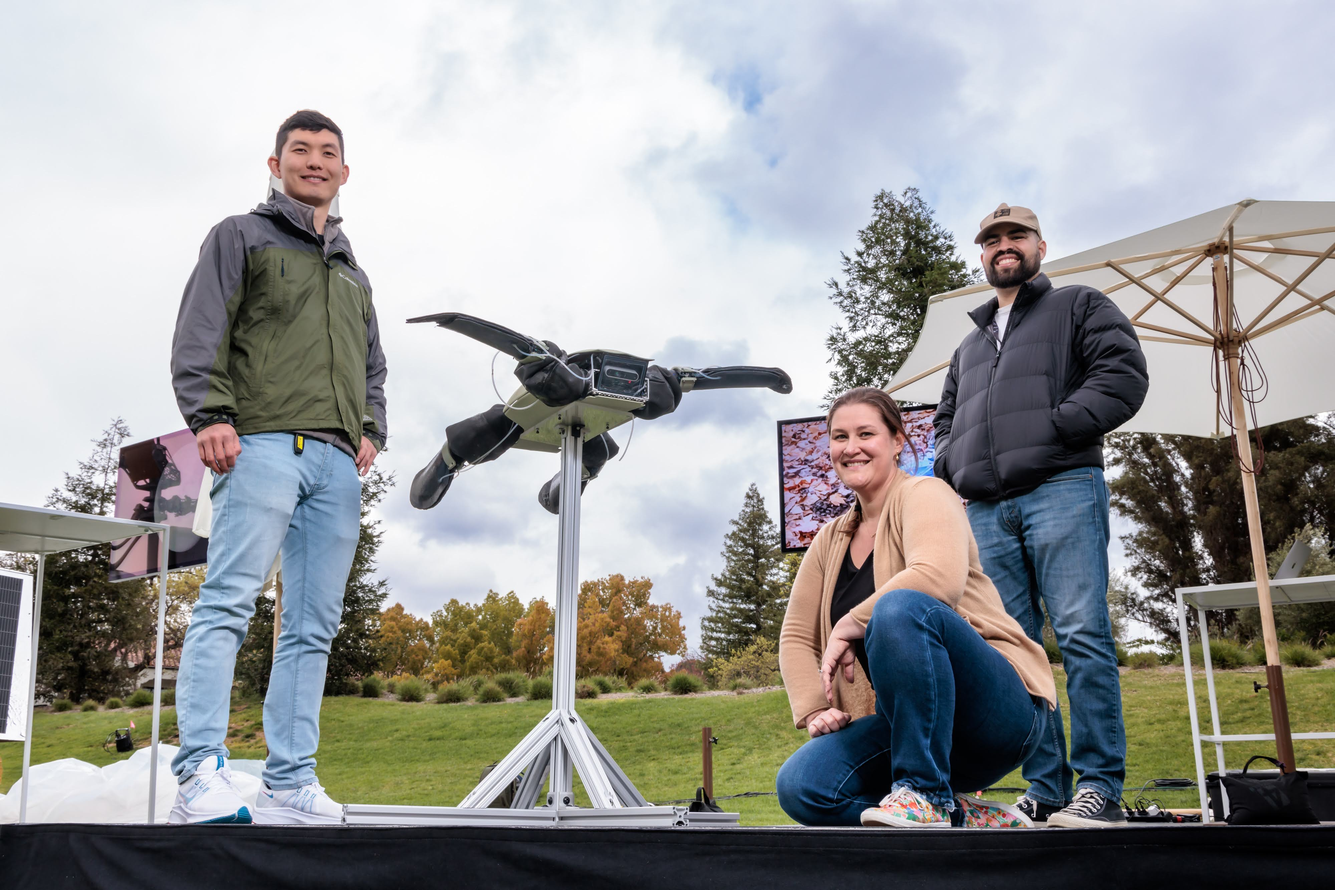
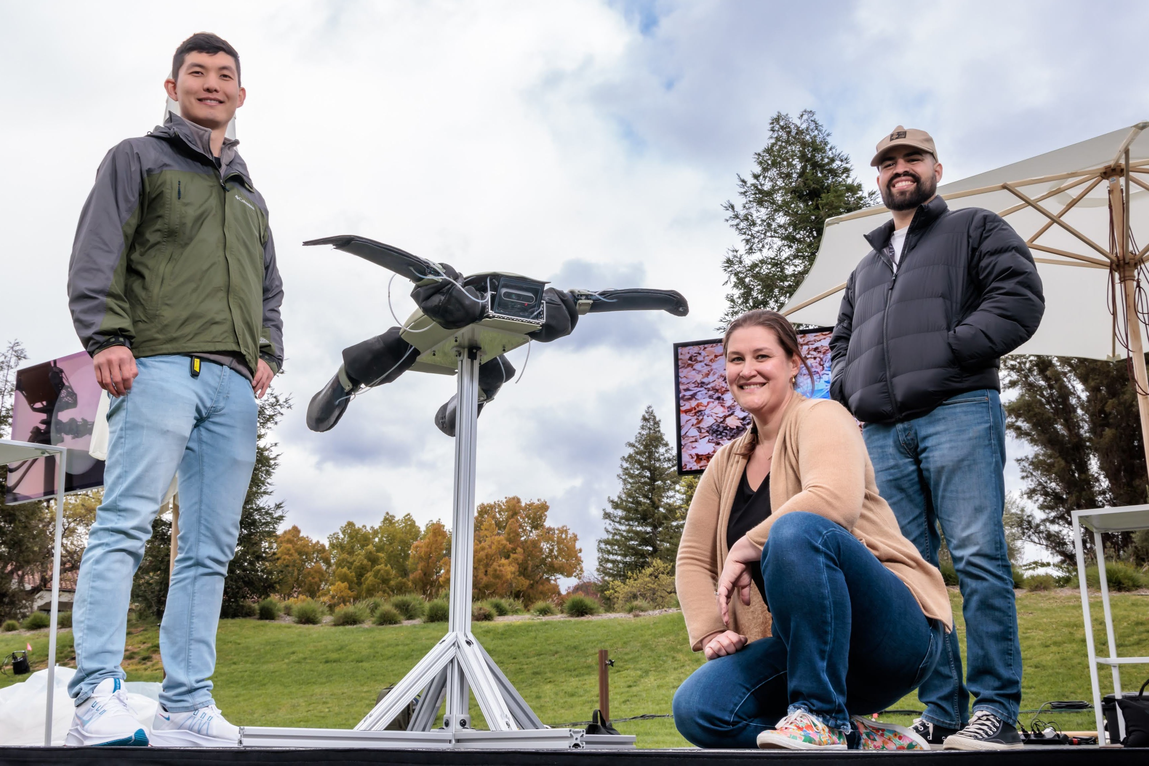
Update research text and media section

diff --git a/styles.css b/styles.css
@@ -1,2 +1,2 @@
 :root{--bg:#f6f7f8;--ink:#111317;--muted:#66707b;--line:#dfe3e7;--panel:#fff;--dark:#111317;--max:1180px;--radius:24px}
-*{box-sizing:border-box}html{scroll-behavior:smooth}body{margin:0;background:var(--bg);color:var(--ink);font-family:Inter,system-ui,sans-serif;line-height:1.6}.container{width:min(var(--max),calc(100% - 40px));margin:auto}.nav-wrap{position:sticky;top:0;z-index:20;background:rgba(246,247,248,.9);backdrop-filter:blur(14px);border-bottom:1px solid rgba(223,227,231,.8)}.nav{height:72px;display:flex;align-items:center;justify-content:space-between}.brand{font:700 22px 'Space Grotesk',sans-serif;text-decoration:none;color:var(--ink);border:2px solid var(--ink);width:42px;height:42px;border-radius:50%;display:grid;place-items:center}.nav-links{display:flex;gap:26px}.nav a{color:var(--ink);text-decoration:none;font-weight:600;font-size:14px}.hero{min-height:78vh;padding:80px 0;display:grid;grid-template-columns:1.05fr .95fr;gap:56px;align-items:center}.eyebrow{font-size:12px;font-weight:700;letter-spacing:.15em;color:#59636d;margin:0 0 18px}.hero h1,.section h2{font-family:'Space Grotesk',sans-serif;letter-spacing:-.04em}.hero h1{font-size:clamp(52px,7vw,92px);line-height:.95;margin:0 0 20px}.hero-subtitle{font-size:clamp(23px,3vw,36px);line-height:1.18;font-weight:500;margin:0 0 22px}.hero-body{font-size:18px;color:var(--muted);max-width:720px}.hero-actions,.about-actions{display:flex;gap:12px;margin-top:30px;flex-wrap:wrap}.button{padding:13px 18px;border-radius:999px;text-decoration:none;font-weight:700;font-size:14px;border:1px solid var(--ink)}.primary{background:var(--ink);color:#fff}.secondary{color:var(--ink);background:transparent}.social-row{display:flex;gap:22px;margin-top:24px}.social-row a,.text-link{color:var(--ink);font-weight:700;text-decoration:none}.media-placeholder{background:linear-gradient(135deg,#d9dde2,#eef1f4);border:1px solid #ccd2d8;border-radius:var(--radius);min-height:360px;display:grid;place-items:center;text-align:center;color:#5f6872;overflow:hidden}.media-placeholder div{display:grid;gap:8px}.media-placeholder span{font-weight:800;font-size:13px;letter-spacing:.13em}.media-placeholder small{font-size:13px}.tall{min-height:560px}.small{min-height:230px;border-radius:18px}.wide{grid-column:span 2}.section{padding:100px 0}.section-heading{max-width:760px;margin-bottom:44px}.section h2{font-size:clamp(36px,5vw,64px);line-height:1.05;margin:0}.section-intro{font-size:18px;color:var(--muted)}.project-card{background:var(--panel);border:1px solid var(--line);border-radius:var(--radius);overflow:hidden}.featured{display:grid;grid-template-columns:1.15fr .85fr;margin-bottom:28px}.project-copy{padding:36px}.project-copy h3{font-family:'Space Grotesk',sans-serif;font-size:31px;line-height:1.1;margin:0 0 15px}.project-copy p{color:var(--muted)}.project-kicker{font-size:11px!important;font-weight:800;letter-spacing:.14em;color:#4f5963!important}.tag-row{display:flex;gap:8px;flex-wrap:wrap;margin:22px 0}.tag-row span{font-size:12px;background:#eef1f3;padding:7px 10px;border-radius:999px}.project-grid{display:grid;grid-template-columns:repeat(3,1fr);gap:24px}.compact .project-copy{padding:25px}.compact .project-copy h3{font-size:24px}.section-dark{background:var(--dark);color:#fff}.split{display:grid;grid-template-columns:1fr 1fr;gap:70px}.section-dark .eyebrow{color:#aab3bc}.research-copy{font-size:20px;color:#c3c9cf}.pub-list{border-top:1px solid var(--line)}.pub{display:grid;grid-template-columns:90px 1fr;gap:25px;padding:28px 0;border-bottom:1px solid var(--line)}.pub>span{font-weight:800;color:#69727b}.pub h3{font-size:20px;margin:0 0 4px}.pub p{margin:0;color:var(--muted)}.media-section{background:#eef1f3}.media-grid{display:grid;grid-template-columns:repeat(2,1fr);gap:24px}.about-grid{display:grid;grid-template-columns:.8fr 1.2fr;gap:80px}.about-copy{font-size:19px;color:var(--muted)}footer{border-top:1px solid var(--line);padding:30px 0}.footer-inner{display:flex;justify-content:space-between;color:var(--muted);font-size:13px}@media(max-width:900px){.nav-links{gap:14px}.nav-links a:nth-child(3),.nav-links a:nth-child(4){display:none}.hero,.featured,.split,.about-grid{grid-template-columns:1fr}.hero{padding-top:50px}.tall{min-height:420px}.project-grid{grid-template-columns:1fr}.wide{grid-column:auto}.media-grid{grid-template-columns:1fr}}@media(max-width:560px){.container{width:min(var(--max),calc(100% - 24px))}.nav{height:64px}.nav-links{gap:10px}.nav a{font-size:12px}.hero{padding:46px 0}.hero h1{font-size:52px}.section{padding:72px 0}.project-copy{padding:24px}.media-placeholder{min-height:260px}.pub{grid-template-columns:60px 1fr}.footer-inner{flex-direction:column;gap:6px}}
+*{box-sizing:border-box}html{scroll-behavior:smooth}body{margin:0;background:var(--bg);color:var(--ink);font-family:Inter,system-ui,sans-serif;line-height:1.6}.container{width:min(var(--max),calc(100% - 40px));margin:auto}.nav-wrap{position:sticky;top:0;z-index:20;background:rgba(246,247,248,.9);backdrop-filter:blur(14px);border-bottom:1px solid rgba(223,227,231,.8)}.nav{height:72px;display:flex;align-items:center;justify-content:space-between}.brand{font:700 22px 'Space Grotesk',sans-serif;text-decoration:none;color:var(--ink);border:2px solid var(--ink);width:42px;height:42px;border-radius:50%;display:grid;place-items:center}.nav-links{display:flex;gap:26px}.nav a{color:var(--ink);text-decoration:none;font-weight:600;font-size:14px}.hero{min-height:78vh;padding:80px 0;display:grid;grid-template-columns:1.05fr .95fr;gap:56px;align-items:center}.eyebrow{font-size:12px;font-weight:700;letter-spacing:.15em;color:#59636d;margin:0 0 18px}.hero h1,.section h2{font-family:'Space Grotesk',sans-serif;letter-spacing:-.04em}.hero h1{font-size:clamp(52px,7vw,92px);line-height:.95;margin:0 0 20px}.hero-subtitle{font-size:clamp(23px,3vw,36px);line-height:1.18;font-weight:500;margin:0 0 22px}.hero-body{font-size:18px;color:var(--muted);max-width:720px}.hero-actions,.about-actions{display:flex;gap:12px;margin-top:30px;flex-wrap:wrap}.button{padding:13px 18px;border-radius:999px;text-decoration:none;font-weight:700;font-size:14px;border:1px solid var(--ink)}.primary{background:var(--ink);color:#fff}.secondary{color:var(--ink);background:transparent}.social-row{display:flex;gap:22px;margin-top:24px}.social-row a,.text-link{color:var(--ink);font-weight:700;text-decoration:none}.media-placeholder{background:linear-gradient(135deg,#d9dde2,#eef1f4);border:1px solid #ccd2d8;border-radius:var(--radius);min-height:360px;display:grid;place-items:center;text-align:center;color:#5f6872;overflow:hidden}.media-placeholder div{display:grid;gap:8px}.media-placeholder span{font-weight:800;font-size:13px;letter-spacing:.13em}.media-placeholder small{font-size:13px}.tall{min-height:560px}.small{min-height:230px;border-radius:18px}.wide{grid-column:span 2}.section{padding:100px 0}.section-heading{max-width:760px;margin-bottom:44px}.section h2{font-size:clamp(36px,5vw,64px);line-height:1.05;margin:0}.section-intro{font-size:18px;color:var(--muted)}.project-card{background:var(--panel);border:1px solid var(--line);border-radius:var(--radius);overflow:hidden}.featured{display:grid;grid-template-columns:1.15fr .85fr;margin-bottom:28px}.project-copy{padding:36px}.project-copy h3{font-family:'Space Grotesk',sans-serif;font-size:31px;line-height:1.1;margin:0 0 15px}.project-copy p{color:var(--muted)}.project-kicker{font-size:11px!important;font-weight:800;letter-spacing:.14em;color:#4f5963!important}.tag-row{display:flex;gap:8px;flex-wrap:wrap;margin:22px 0}.tag-row span{font-size:12px;background:#eef1f3;padding:7px 10px;border-radius:999px}.project-grid{display:grid;grid-template-columns:repeat(3,1fr);gap:24px}.compact .project-copy{padding:25px}.compact .project-copy h3{font-size:24px}.section-dark{background:var(--dark);color:#fff}.split{display:grid;grid-template-columns:1fr 1fr;gap:70px}.section-dark .eyebrow{color:#aab3bc}.research-copy{font-size:20px;color:#c3c9cf}.pub-list{border-top:1px solid var(--line)}.pub{display:grid;grid-template-columns:90px 1fr;gap:25px;padding:28px 0;border-bottom:1px solid var(--line)}.pub>span{font-weight:800;color:#69727b}.pub h3{font-size:20px;margin:0 0 4px}.pub p{margin:0;color:var(--muted)}.media-section{background:#eef1f3}.media-grid{display:grid;grid-template-columns:repeat(2,1fr);gap:24px}.media-item{margin:0}.media-item figcaption{margin:10px 4px 0;color:var(--muted);font-size:14px}.about-grid{display:grid;grid-template-columns:.8fr 1.2fr;gap:80px}.about-copy{font-size:19px;color:var(--muted)}footer{border-top:1px solid var(--line);padding:30px 0}.footer-inner{display:flex;justify-content:space-between;color:var(--muted);font-size:13px}@media(max-width:900px){.nav-links{gap:14px}.nav-links a:nth-child(3),.nav-links a:nth-child(4){display:none}.hero,.featured,.split,.about-grid{grid-template-columns:1fr}.hero{padding-top:50px}.tall{min-height:420px}.project-grid{grid-template-columns:1fr}.wide{grid-column:auto}.media-grid{grid-template-columns:1fr}}@media(max-width:560px){.container{width:min(var(--max),calc(100% - 24px))}.nav{height:64px}.nav-links{gap:10px}.nav a{font-size:12px}.hero{padding:46px 0}.hero h1{font-size:52px}.section{padding:72px 0}.project-copy{padding:24px}.media-placeholder{min-height:260px}.pub{grid-template-columns:60px 1fr}.footer-inner{flex-direction:column;gap:6px}}

diff --git a/index.html b/index.html
@@ -30,7 +30,7 @@
         <p class="eyebrow">MECHANICAL ENGINEERING · ROBOTICS · R&D</p>
         <h1>Luis A. Ramirez</h1>
         <p class="hero-subtitle">Mechanical engineer and roboticist developing adaptive machines for challenging environments.</p>
-        <p class="hero-body">Ph.D. candidate in Mechanical Engineering at Yale University. My work spans morphing robots, amphibious systems, variable-stiffness mechanisms, experimental validation, and hands-on robotic hardware development.</p>
+        <p class="hero-body">Ph.D. candidate in Mechanical Engineering at Yale University. My work spans bioinspired robotics, morphing robots, amphibious systems, variable-stiffness mechanisms, experimental validation, and hands-on robotic hardware development.</p>
         <div class="hero-actions">
           <a class="button primary" href="#projects">View projects</a>
           <a class="button secondary" href="Luis_Ramirez_CV.pdf" target="_blank" rel="noopener">Download CV</a>
@@ -125,6 +125,7 @@
         </div>
         <div class="research-copy">
           <p>My research focuses on adaptive robotic systems that change their physical properties or morphology to operate effectively across different environments and tasks.</p>
+          <p>More specifically, I investigate how to improve the efficiency of robotic transitions across multiple environments. My approach combines bioinspired multi-gait locomotion with morphology–gait pairings optimized for distinct terrains, while minimizing the energetic cost of shape change, ensuring that the performance gains enabled by adaptation outweigh the cost of morphing.</p>
           <p>I am especially interested in mechanical design, robotic mechanisms, experimental validation, prototyping, and the integration of complete robotic systems.</p>
         </div>
       </div>
@@ -148,25 +149,32 @@
       <div class="container">
         <div class="section-heading">
           <p class="eyebrow">MEDIA</p>
-          <h2>Photos and video can live directly on the site.</h2>
-          <p class="section-intro">Use short MP4 clips, YouTube/Vimeo embeds, CAD renders, test photos, GIFs, and high-resolution project photography.</p>
         </div>
         <div class="media-grid">
-          <div class="media-placeholder wide">
-            <video autoplay muted loop playsinline preload="metadata" style="width:100%;height:100%;min-height:360px;object-fit:cover;">
-              <source src="assets/videos/5x_diving_return_single_view.mp4" type="video/mp4">
-              Your browser does not support the video tag.
-            </video>
-          </div>
-          <div class="media-placeholder">
-            <img src="assets/images/MARS.jpeg" alt="MARS project team with an adaptive robotic turtle" loading="lazy" style="width:100%;height:100%;min-height:360px;object-fit:contain;">
-          </div>
-          <div class="media-placeholder">
-            <video autoplay muted loop playsinline preload="metadata" style="width:100%;height:100%;min-height:360px;object-fit:cover;">
-              <source src="assets/videos/crawlingjart.mp4" type="video/mp4">
-              Your browser does not support the video tag.
-            </video>
-          </div>
+          <figure class="media-item wide">
+            <div class="media-placeholder">
+              <video autoplay muted loop playsinline preload="metadata" style="width:100%;height:100%;min-height:360px;object-fit:cover;">
+                <source src="assets/videos/5x_diving_return_single_view.mp4" type="video/mp4">
+                Your browser does not support the video tag.
+              </video>
+            </div>
+            <figcaption>Controlled diving and resurfacing trials with an amphibious robotic turtle.</figcaption>
+          </figure>
+          <figure class="media-item">
+            <div class="media-placeholder">
+              <img src="assets/images/MARS.jpeg" alt="MARS project team with an adaptive robotic turtle" loading="lazy" style="width:100%;height:100%;min-height:360px;object-fit:contain;">
+            </div>
+            <figcaption>Live demonstration of adaptive robotic systems at Jeff Bezos’s MARS conference.</figcaption>
+          </figure>
+          <figure class="media-item">
+            <div class="media-placeholder">
+              <video autoplay muted loop playsinline preload="metadata" style="width:100%;height:100%;min-height:360px;object-fit:cover;">
+                <source src="assets/videos/crawlingjart.mp4" type="video/mp4">
+                Your browser does not support the video tag.
+              </video>
+            </div>
+            <figcaption>Comparative crawling trials with rigid and compliant limbs across varied terrain.</figcaption>
+          </figure>
         </div>
       </div>
     </section>
